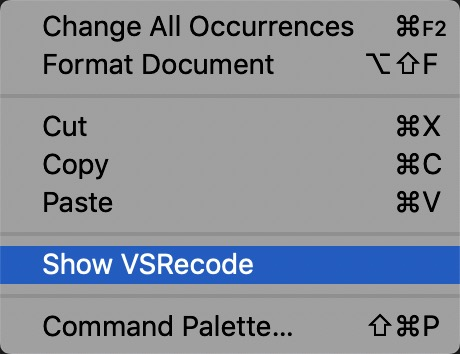
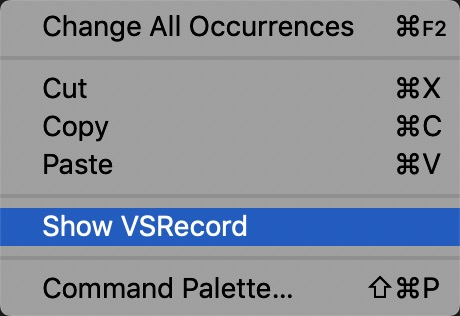
name change

diff --git a/src/extension.js b/src/extension.js
@@ -196,10 +196,10 @@ function activate(context) {
 		}
 	})
 
-	context.subscriptions.push(vscode.commands.registerCommand('extension.vsrecoder.showRecode', function (){
+	context.subscriptions.push(vscode.commands.registerCommand('extension.vsrecoder.showRecord', function (){
 		const panel = vscode.window.createWebviewPanel(
-				'VSRecoder',
-				"VSRecoder",
+				'VSRecorder',
+				"VSRecorder",
 				vscode.ViewColumn.One,
 				{
 					enableScripts: true,

diff --git a/README.md b/README.md
@@ -1,10 +1,10 @@
 ## Features
 
-Recode you coding time.
+Record you coding time.
 
 ## How to use
 
-After install this extension, you can find `Show VSRecode` in your editor context menu:
+After install this extension, you can find `Show VSRecord` in your editor context menu:
 
 <p><img src="https://github.com/leasontou/vsrecoder/raw/master/images/menu.jpg" alt="menu" width="280px"></p>
 
